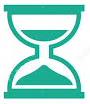
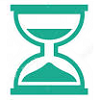
updateahmed01252018

Changed region(s): [[0.0222, 0.03, 0.4889, 0.96], [0.5111, 0.03, 0.9556, 0.96], [0.2444, 0.81, 0.2667, 0.84]]

diff --git a/about.html b/about.html
@@ -75,9 +75,9 @@
 
                 <div class="col-lg-4 col-md-6">
                     <div class="member">
-                    <div class="pic"><img src="img/Ahmed.jpg" alt=""></div>
+                    <div class="pic"><img src="img/Ahmed.jpg" alt="" class ="aboutimage"></div>
                     <h4>Ahmed Akhtar</h4>
-                    <span>Developer and pet lover</span>
+                    <span><h6>Developer and Database Manager</h6></span>
                     <div class="social">
                         <a class="logo" href="https://github.com/ahmedakhtar11"><img border="0" alt="Github" src="assets/images/octocat1.png" height="60" width="60"></a>
                     </div>
@@ -86,9 +86,9 @@
         
                 <div class="col-lg-4 col-md-6">
                     <div class="member">
-                    <div class="pic"><img src="assets/images/Chris2.jpg" alt=""></div>
+                    <div class="pic"><img src="img/chris3.png" alt="" class ="aboutimage"></div>
                     <h4>Chris Hutchinson</h4>
-                    <span>Developer</span>
+                    <span><h6>Developer and Tech Specialist</h6></span>
                     <div class="social">
                         <a class="logo" href="http://github.com/chrishutch"><img border="0" alt="Github" src="assets/images/octocat1.png" height="80" width="80"></a>
                     </div>
@@ -97,9 +97,9 @@
         
                 <div class="col-lg-4 col-md-6">
                     <div class="member">
-                    <div class="pic"><img src="img/team-3.jpg" alt=""></div>
+                    <div class="pic"><img src="img/team-3.jpg" alt="" class ="aboutimage"></div>
                     <h4>George Horopciuc</h4>
-                    <span>Developer</span>
+                    <span><h6>Developer</h6></span>
                     <div class="social">
                         <a class="logo" href="https://github.com/gelutzu"><img border="0" alt="Github" src="assets/images/octocat1.png" height="80" width="80"></a>
                     </div>

diff --git a/index.html b/index.html
@@ -82,20 +82,20 @@
 
         <!-- Counter1-->
         <div id="counter1">
-            <img src="assets/images/target.jpg" alt="Mountain View"><br />
+            <img src="assets/images/hourglass.png" alt="Mountain View"><br />
             <span class="counter" data-count="6500000">0</span>
            <h3 class = "countertitle">New Pets A Year</h3>
         </div>
         <!-- Counter2-->
         <div id="counter2">
-            <img src="assets/images/hourglass.png" alt="Mountain View"><br />
+            <img src="assets/images/house.png" alt="Mountain View"><br />
             <span class="counter" data-count="85">0</span>
             <h3 class="countertitle">Pets Adopted</h3>
 
         </div>
         <!-- Counter3-->
         <div id="counter3">
-            <img src="assets/images/house.png" alt="Mountain View"><br />
+            <img src="assets/images/target.jpg" alt="Mountain View"><br />
             <span class="counter" data-count="2200">0</span>
             <h3 class="countertitle">Adoption Goal</h3>
         </div>

diff --git a/assets/css/style.css b/assets/css/style.css
@@ -4,6 +4,15 @@ html, body {
 
 }
 
+image {border-bottom: 1px solid black;
+
+	}
+
+	.aboutimage{
+
+		border: 1px solid darkgray;
+	}
+
 .hiddenhtml {
 
 overflow-x: hidden;
@@ -125,14 +134,14 @@ overflow-x: hidden;
     #counter1 {
         float: left;
         margin: 50px;
-        color: #4c4d4f;
+         color: #68696b;
         margin-left: 120px
     }
 
     #counter2 {
         float: left;
         margin: 50px;
-        color: #4c4d4f;
+         color: #68696b;
         margin-left: 120px
     }
 
@@ -141,4 +150,8 @@ overflow-x: hidden;
         margin: 50px;
         color: #68696b;
         margin-left: 120px
+    }
+
+    .titles {
+    	margin-top: 30px;
     }
